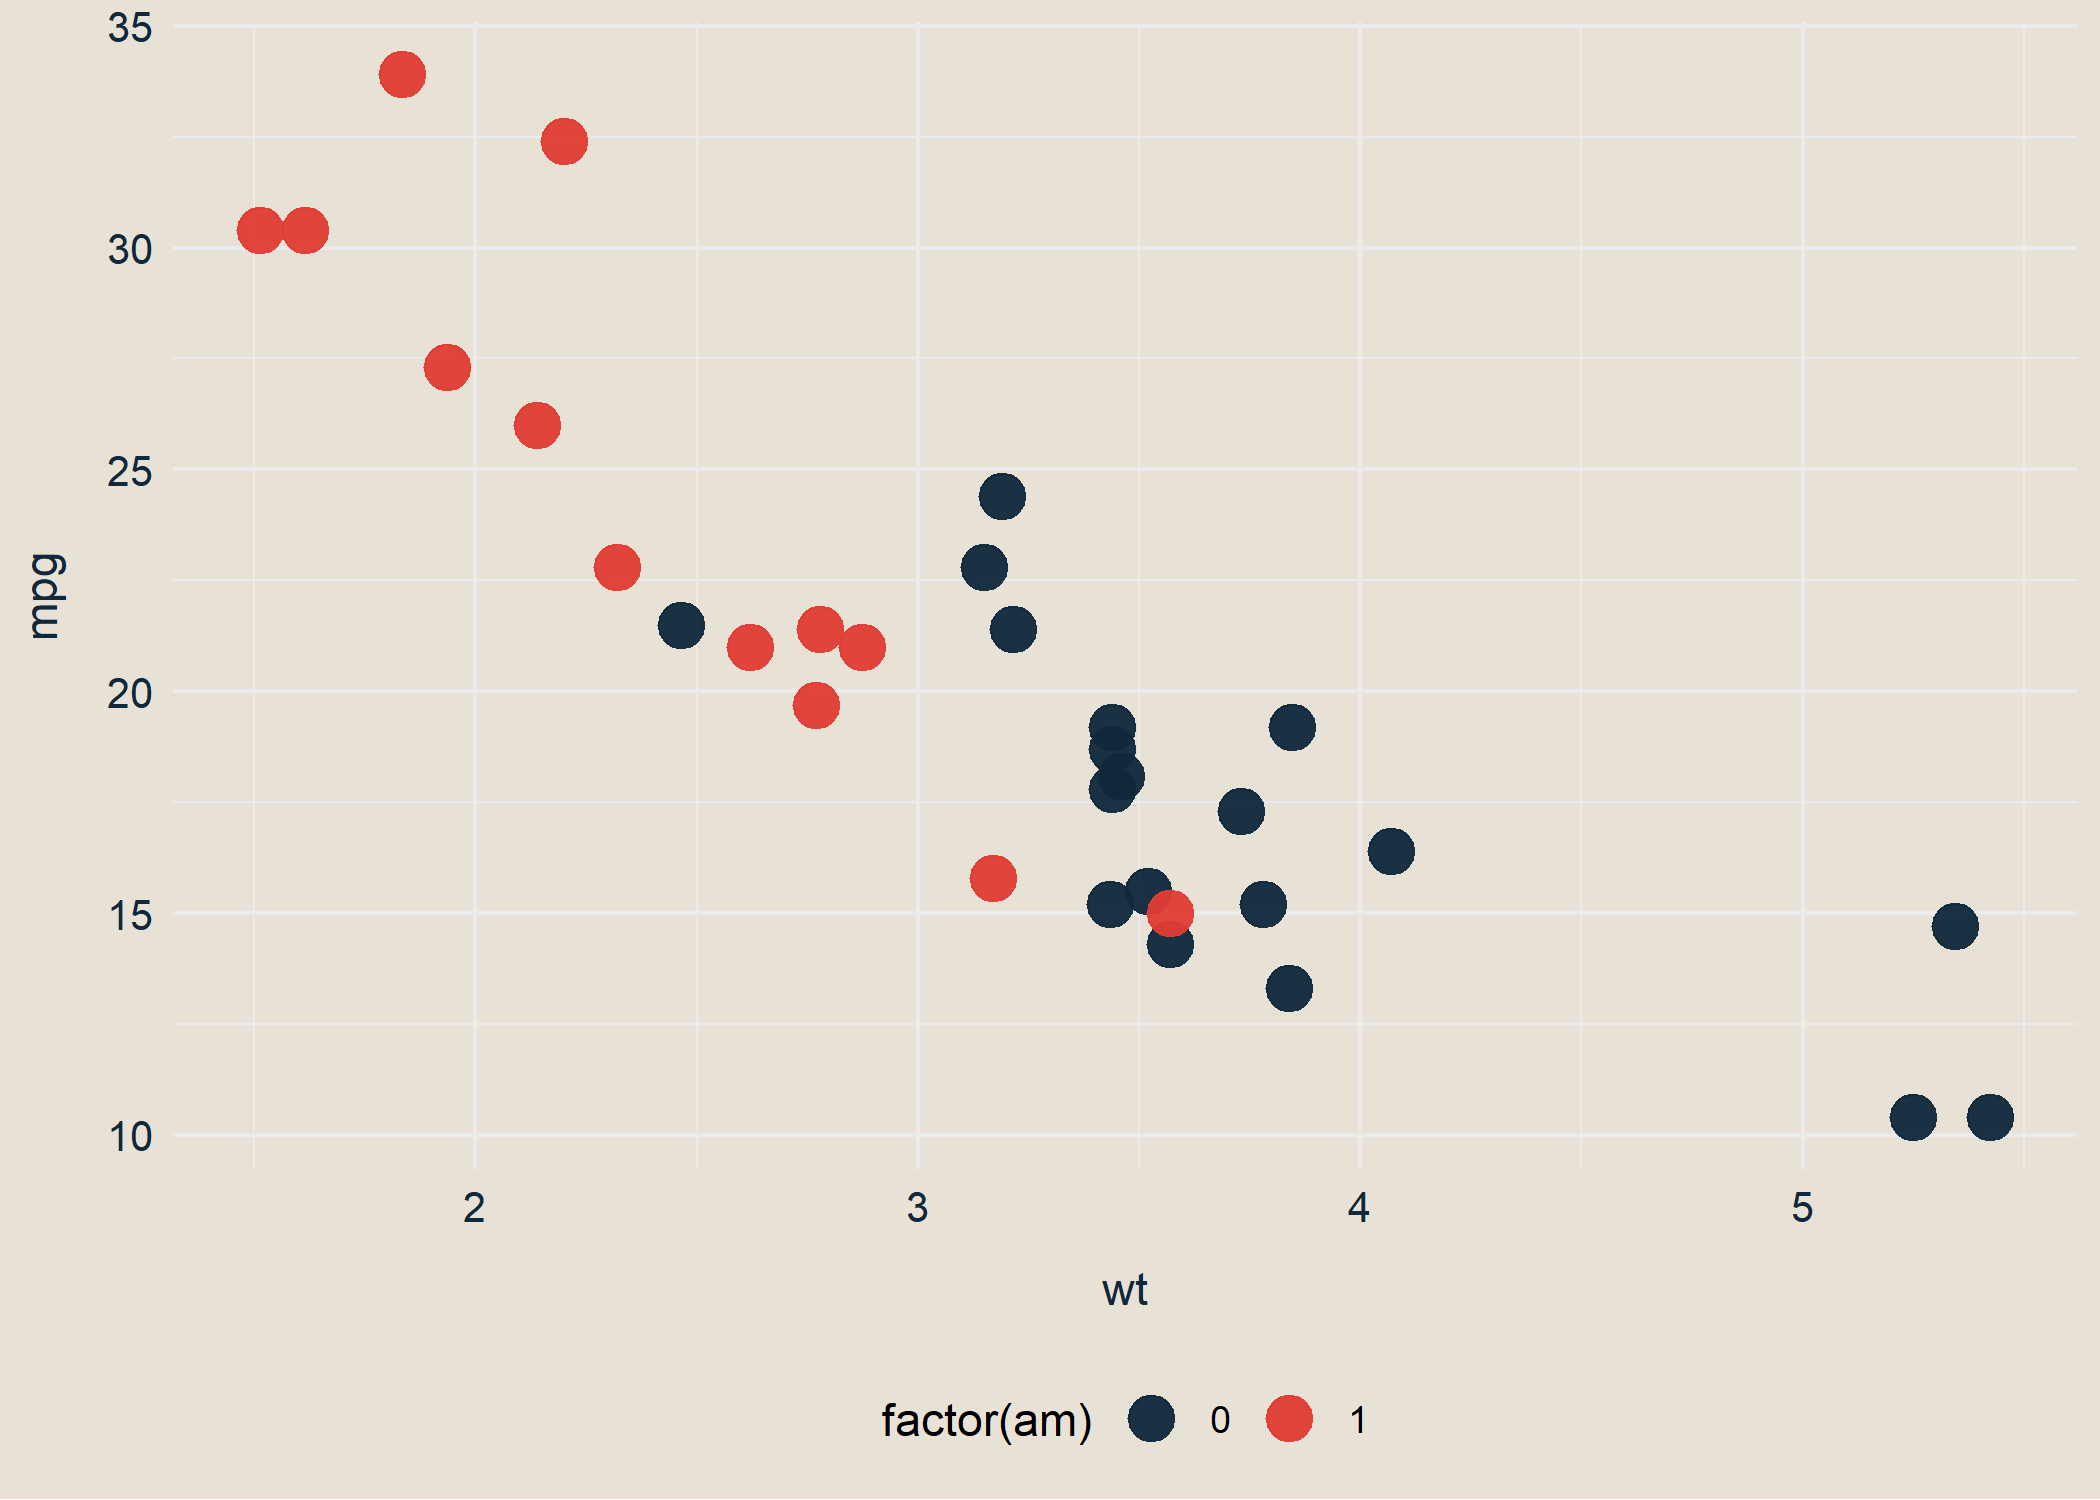
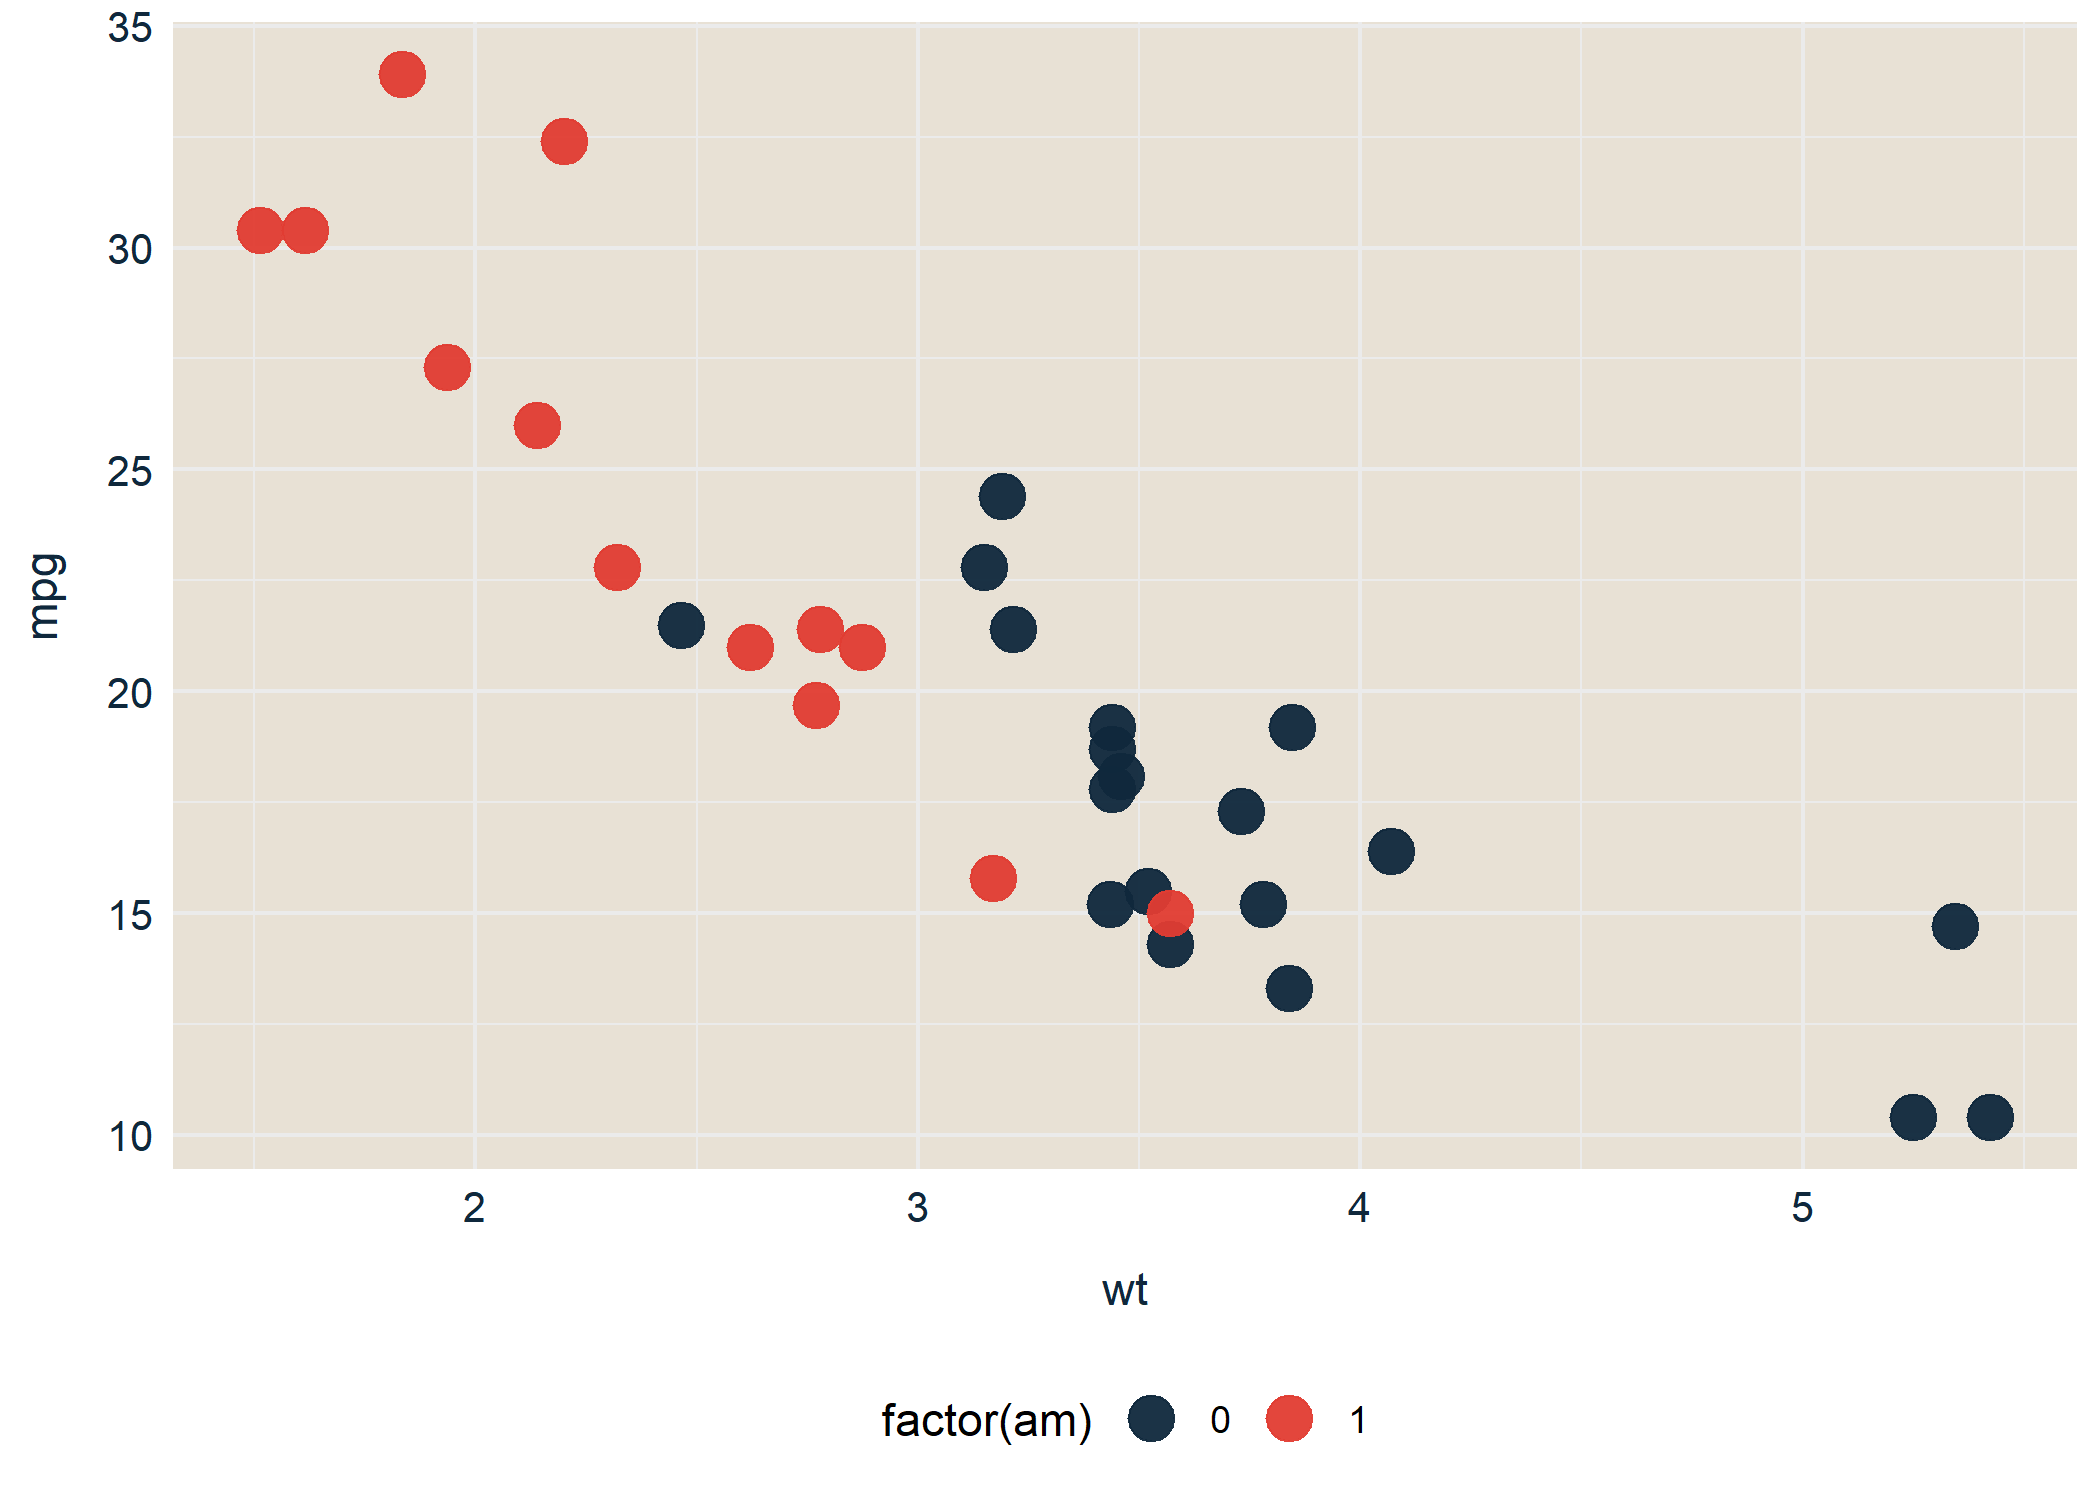
readme

diff --git a/README.md b/README.md
@@ -87,7 +87,7 @@ ggplot(mtcars, aes(x = wt,
                    color = factor(am))) +
   geom_point(size = 5,
              alpha = .95) +
-  epitheme_dust(background = "yes") +
+  epitheme_dust() +
   color_epi_d(primary = "Red",
               secondary = "DarkBlue")
 ```
